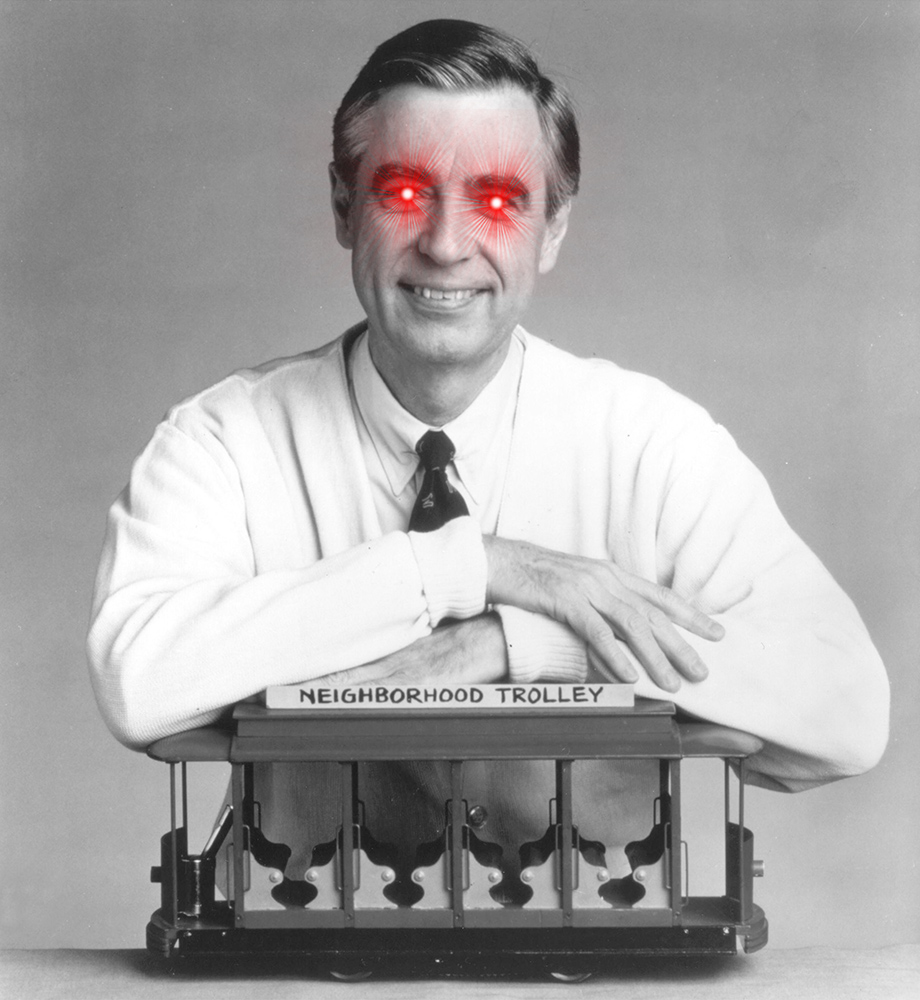
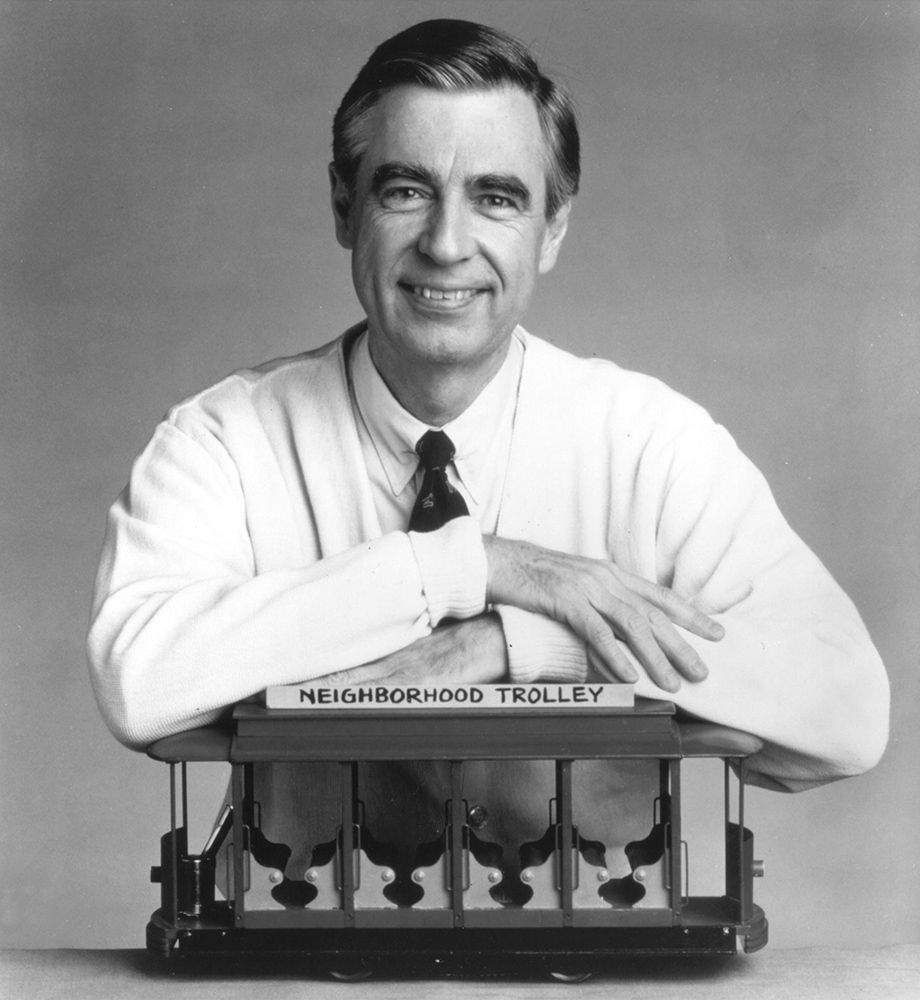
set error image for mr robogers

Changed region(s): [[0.3043, 0.093, 0.6391, 0.31]]

diff --git a/js/scripts.js b/js/scripts.js
@@ -34,11 +34,18 @@ $(document).ready(function () {
     const name = $("#name").val();
     const number = $("#input").val();
     const direction = $("input:radio[name=direction]:checked").val();
-    console.log(direction);
-    if (direction === "reversed") {
+    if (typeof mrRobogers(name, number) === "string") {
+      $("#output").html(mrRobogers(name, number));
+      $("#robogers-image").hide();
+      $("#error").show();
+    } else if (direction === "reversed") {
       $("#output").html(mrRobogers(name, number).reverse().join(", "));
+      $("#robogers-image").show();
+      $("#error").hide();
     } else {
       $("#output").html(mrRobogers(name, number).join(", "));
+      $("#robogers-image").show();
+      $("#error").hide();
     }
     $("#result").fadeIn();
   });

diff --git a/index.html b/index.html
@@ -66,7 +66,8 @@
         </div>
       </form>
       <div id="result">
-        <img src="img/mr-robogers.jpg" class="rounded" alt="Mr. Robogers">
+        <img id="robogers-image" src="img/mr-robogers.jpg" class="rounded" alt="Mr. Robogers">
+        <img id="error" src="img/mr-robogers-awakened.jpg" class="rounded" alt="Mr. Robogers">
         <div id="output">
         </div>
       </div>

diff --git a/css/styles.css b/css/styles.css
@@ -56,6 +56,10 @@ body {
   margin-bottom: 10px;
 }
 
+#error {
+  display:none;
+}
+
 a:link {
   color: #66FCF1;
 }

diff --git a/README.md b/README.md
@@ -14,7 +14,7 @@
 
 ## Description
 
-The script run on this page will output a string of numbers following certain specs. The string will count from 0 to the inputted number, always returning "Won't you be my neighbor?" if one of the digits in an outputted number is 3, "Boop!" if one of the digits is 2, and "Beep!" if one of the digits is 1, in that order. For instance, an input of "14" will display: "0, "Beep!, Boop!, Won't you be my Neighbor?, 4, 5, 6, 7, 8, 9, "Beep!", "Beep!", "Boop!", "Won't you be my Neighbor?", "Beep!""
+The script run on this page will output a string of numbers following certain specs. The string will count from 0 to the inputted number, always returning "Won't you be my neighbor?" if one of the digits in an outputted number is 3, "Boop!" if one of the digits is 2, and "Beep!" if one of the digits is 1, in that order. For instance, an input of "14" will display: "0, "Beep!, Boop!, Won't you be my Neighbor?, 4, 5, 6, 7, 8, 9, "Beep!", "Beep!", "Boop!", "Won't you be my Neighbor?", "Beep!"". Try inputting non-numbers and numbers higher than 10000!
 
 ## Setup/Installation Requirements
 
